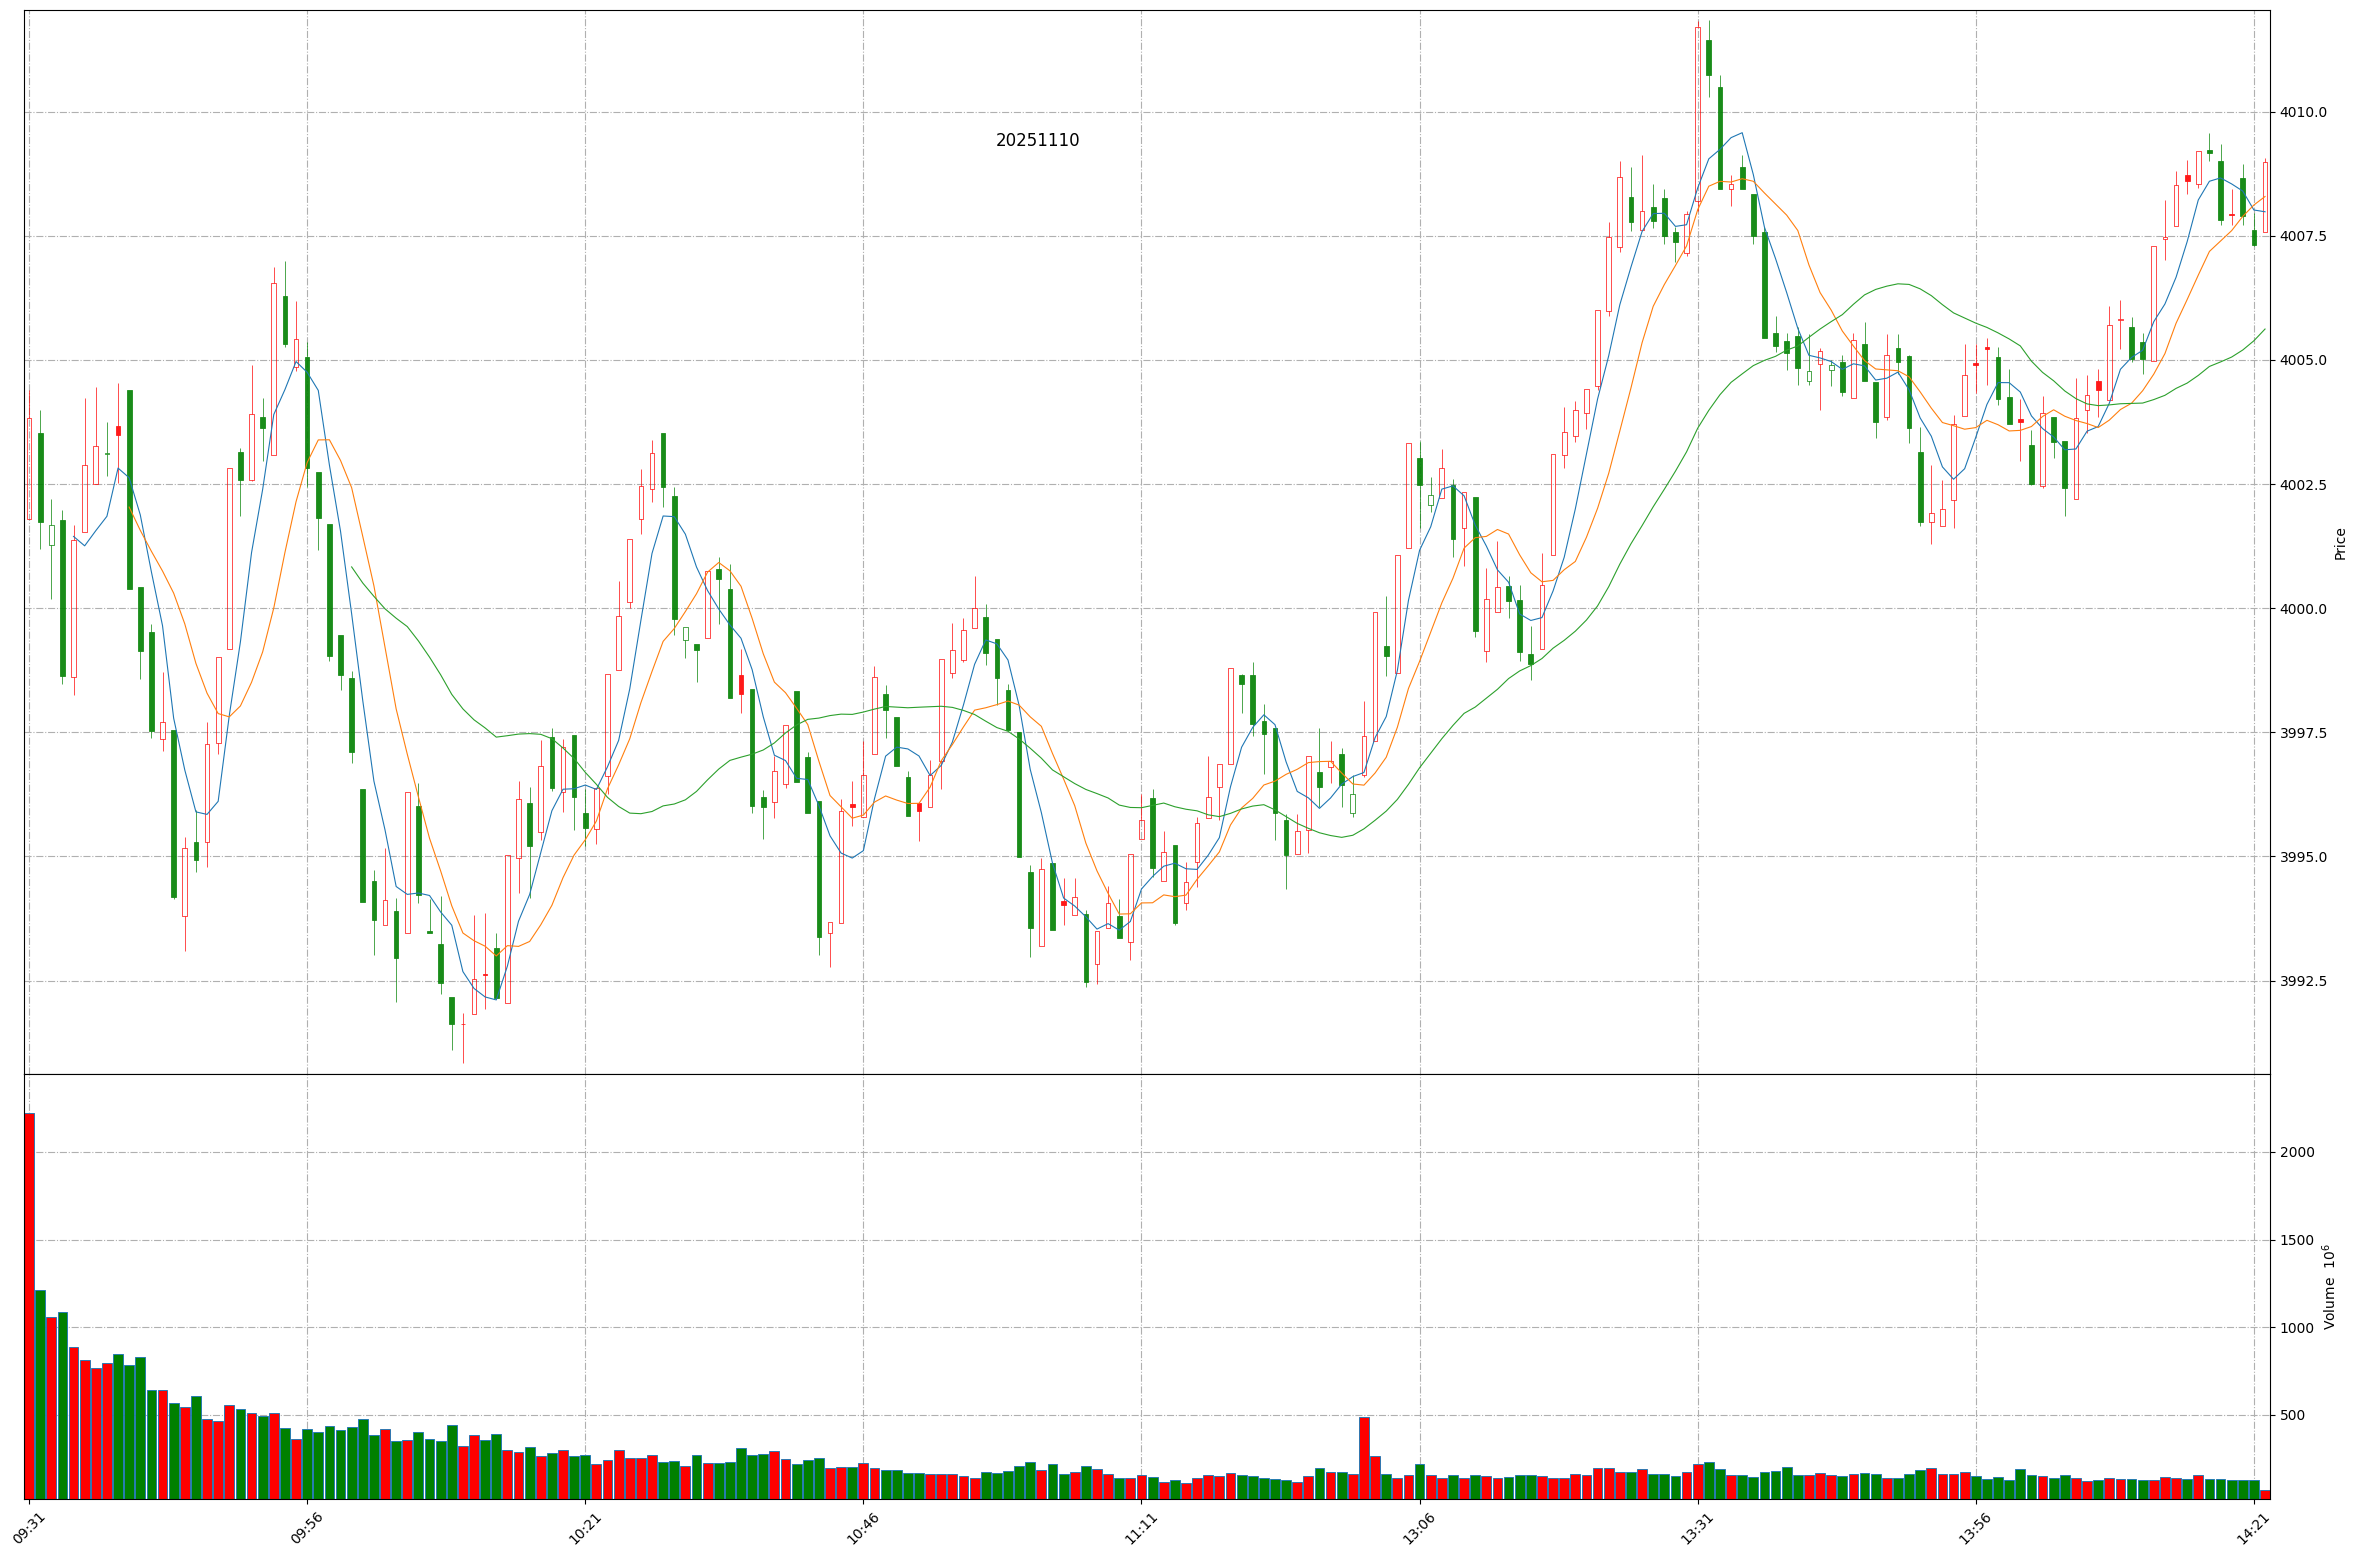
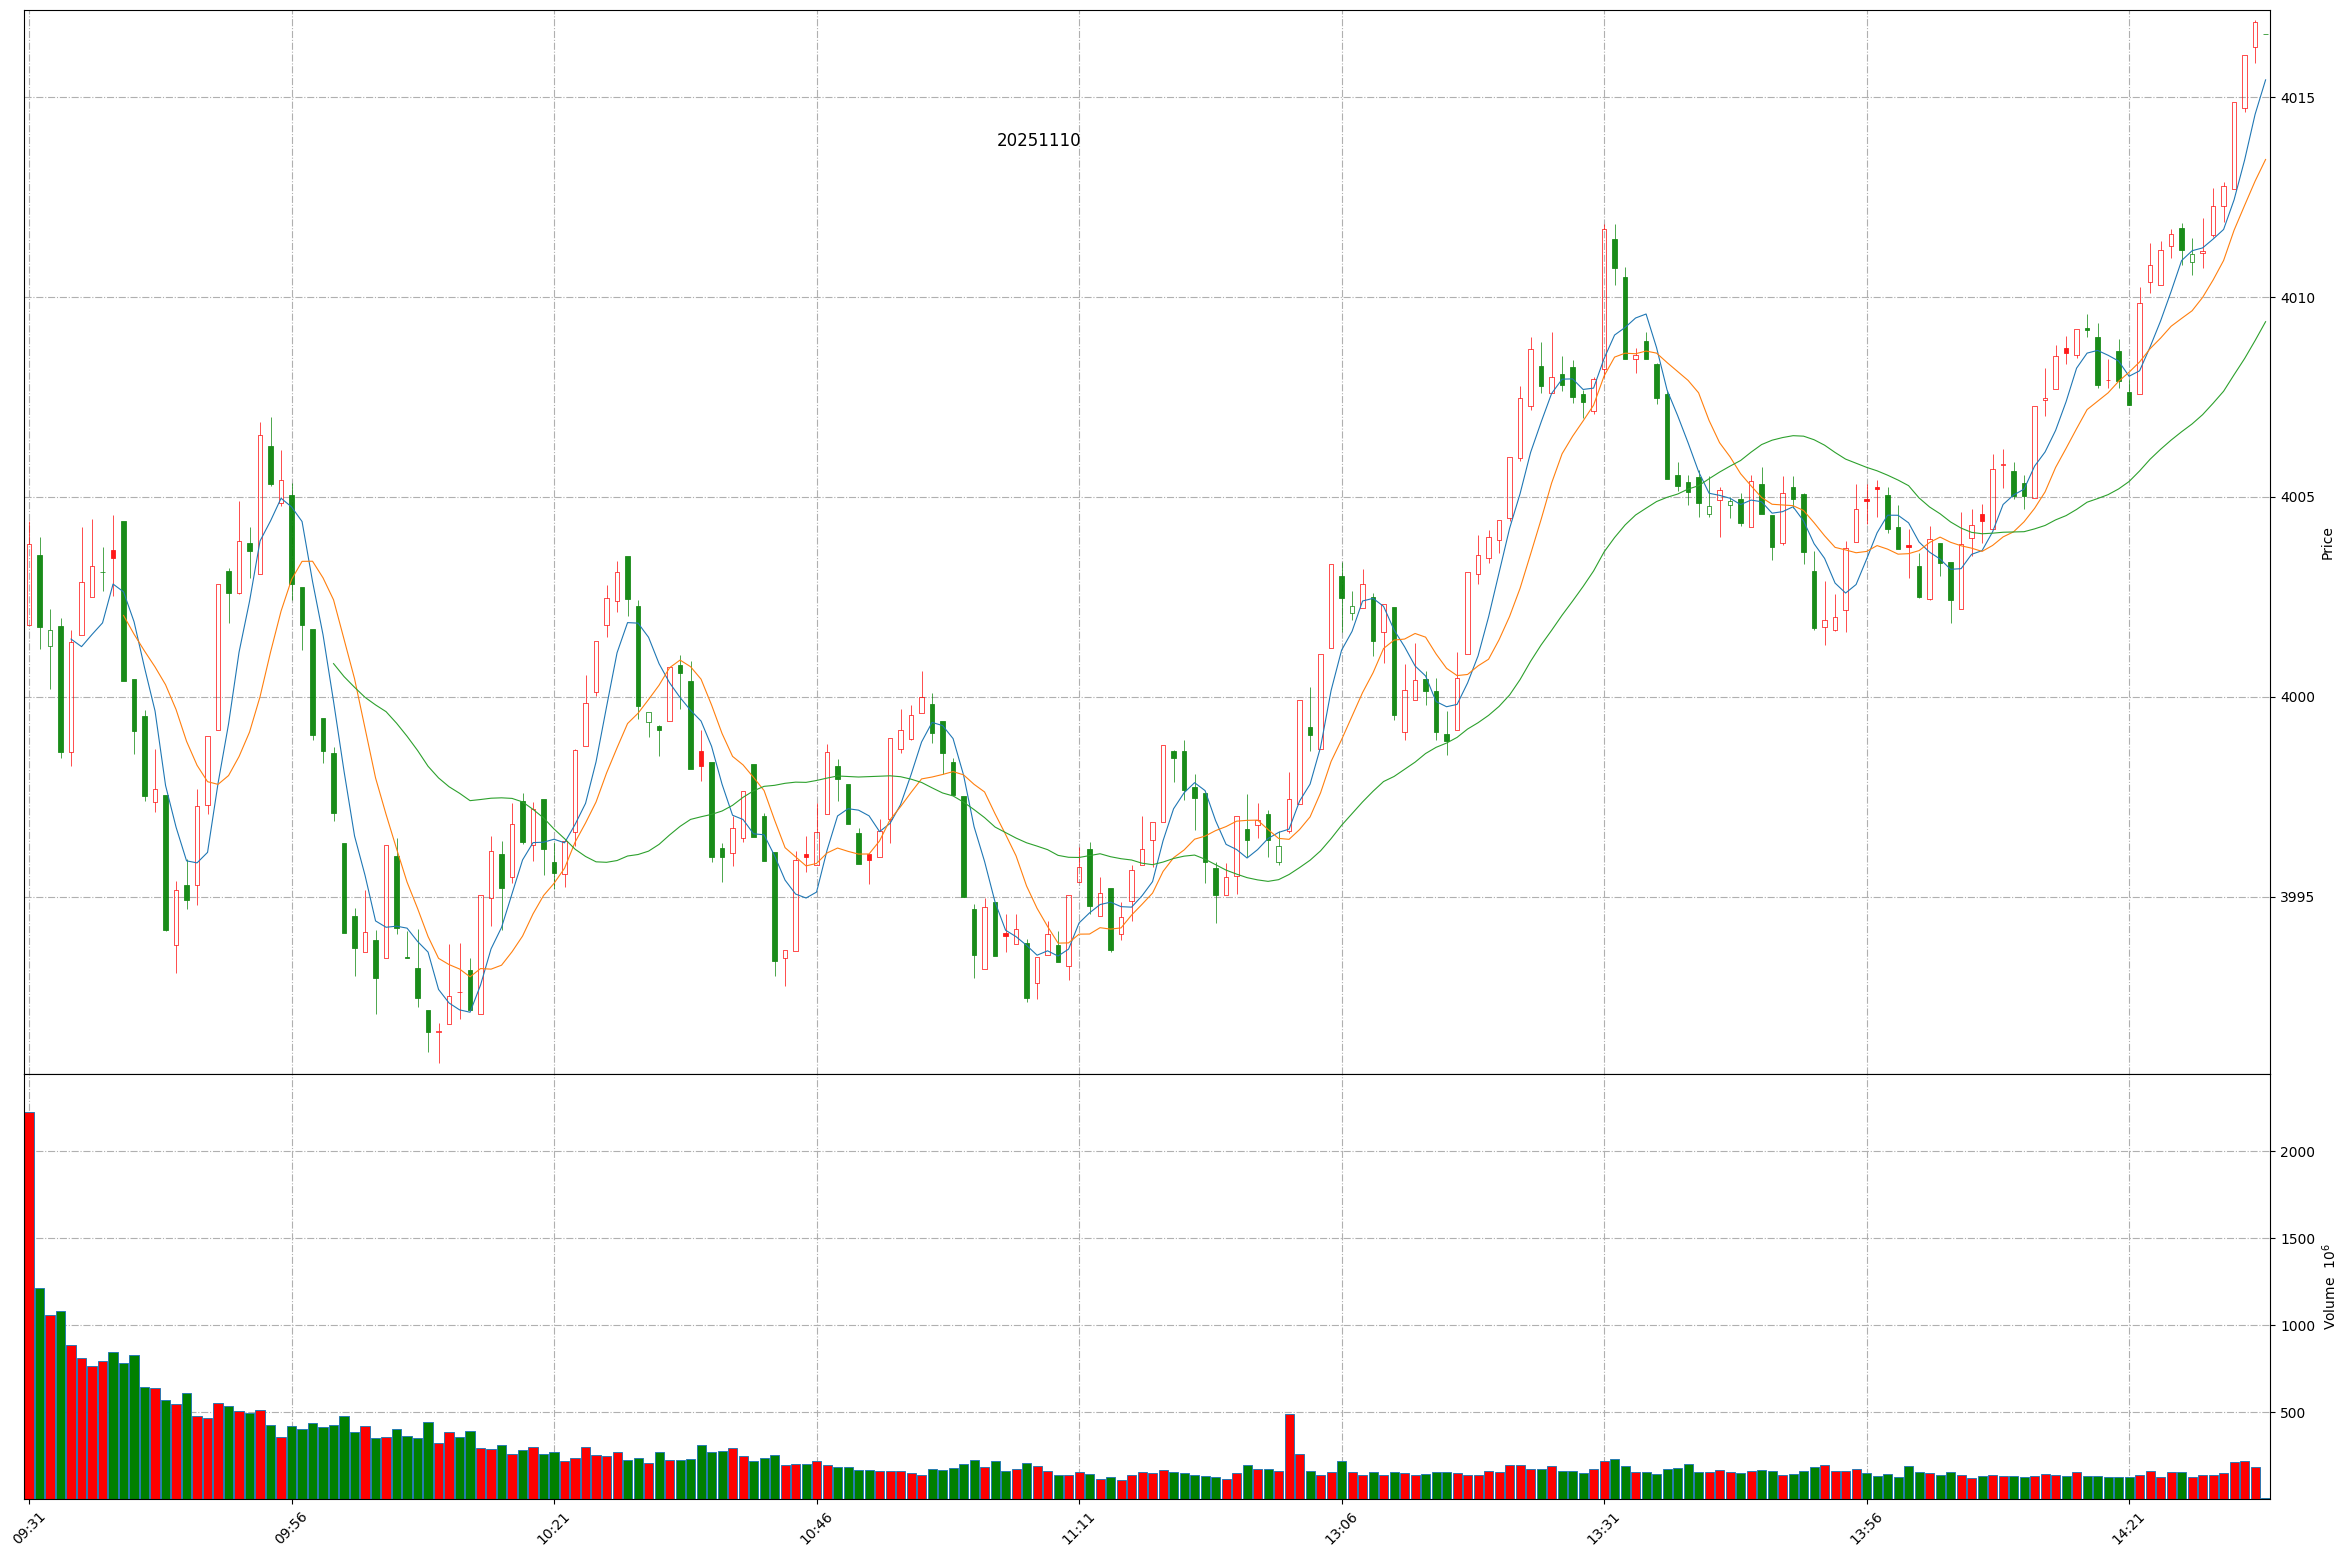
Github action update at 2025-11-10 14:33:30.

diff --git a/README.md b/README.md
@@ -1,11 +1,11 @@
 
 # Daily-A-share-market-quotes 每日 A 股指数（5min 更新）- 20251110
 
-### 上证指数 20251110 14:21
+### 上证指数 20251110 14:33
 ![](./fig/2025/11/20251110-sh000001.png)
 
-### 深证成指 20251110 14:21
+### 深证成指 20251110 14:33
 ![](./fig/2025/11/20251110-sz399001.png)
 
-### 北证50 20251110 14:21
+### 北证50 20251110 14:33
 ![](./fig/2025/11/20251110-bj899050.png)
